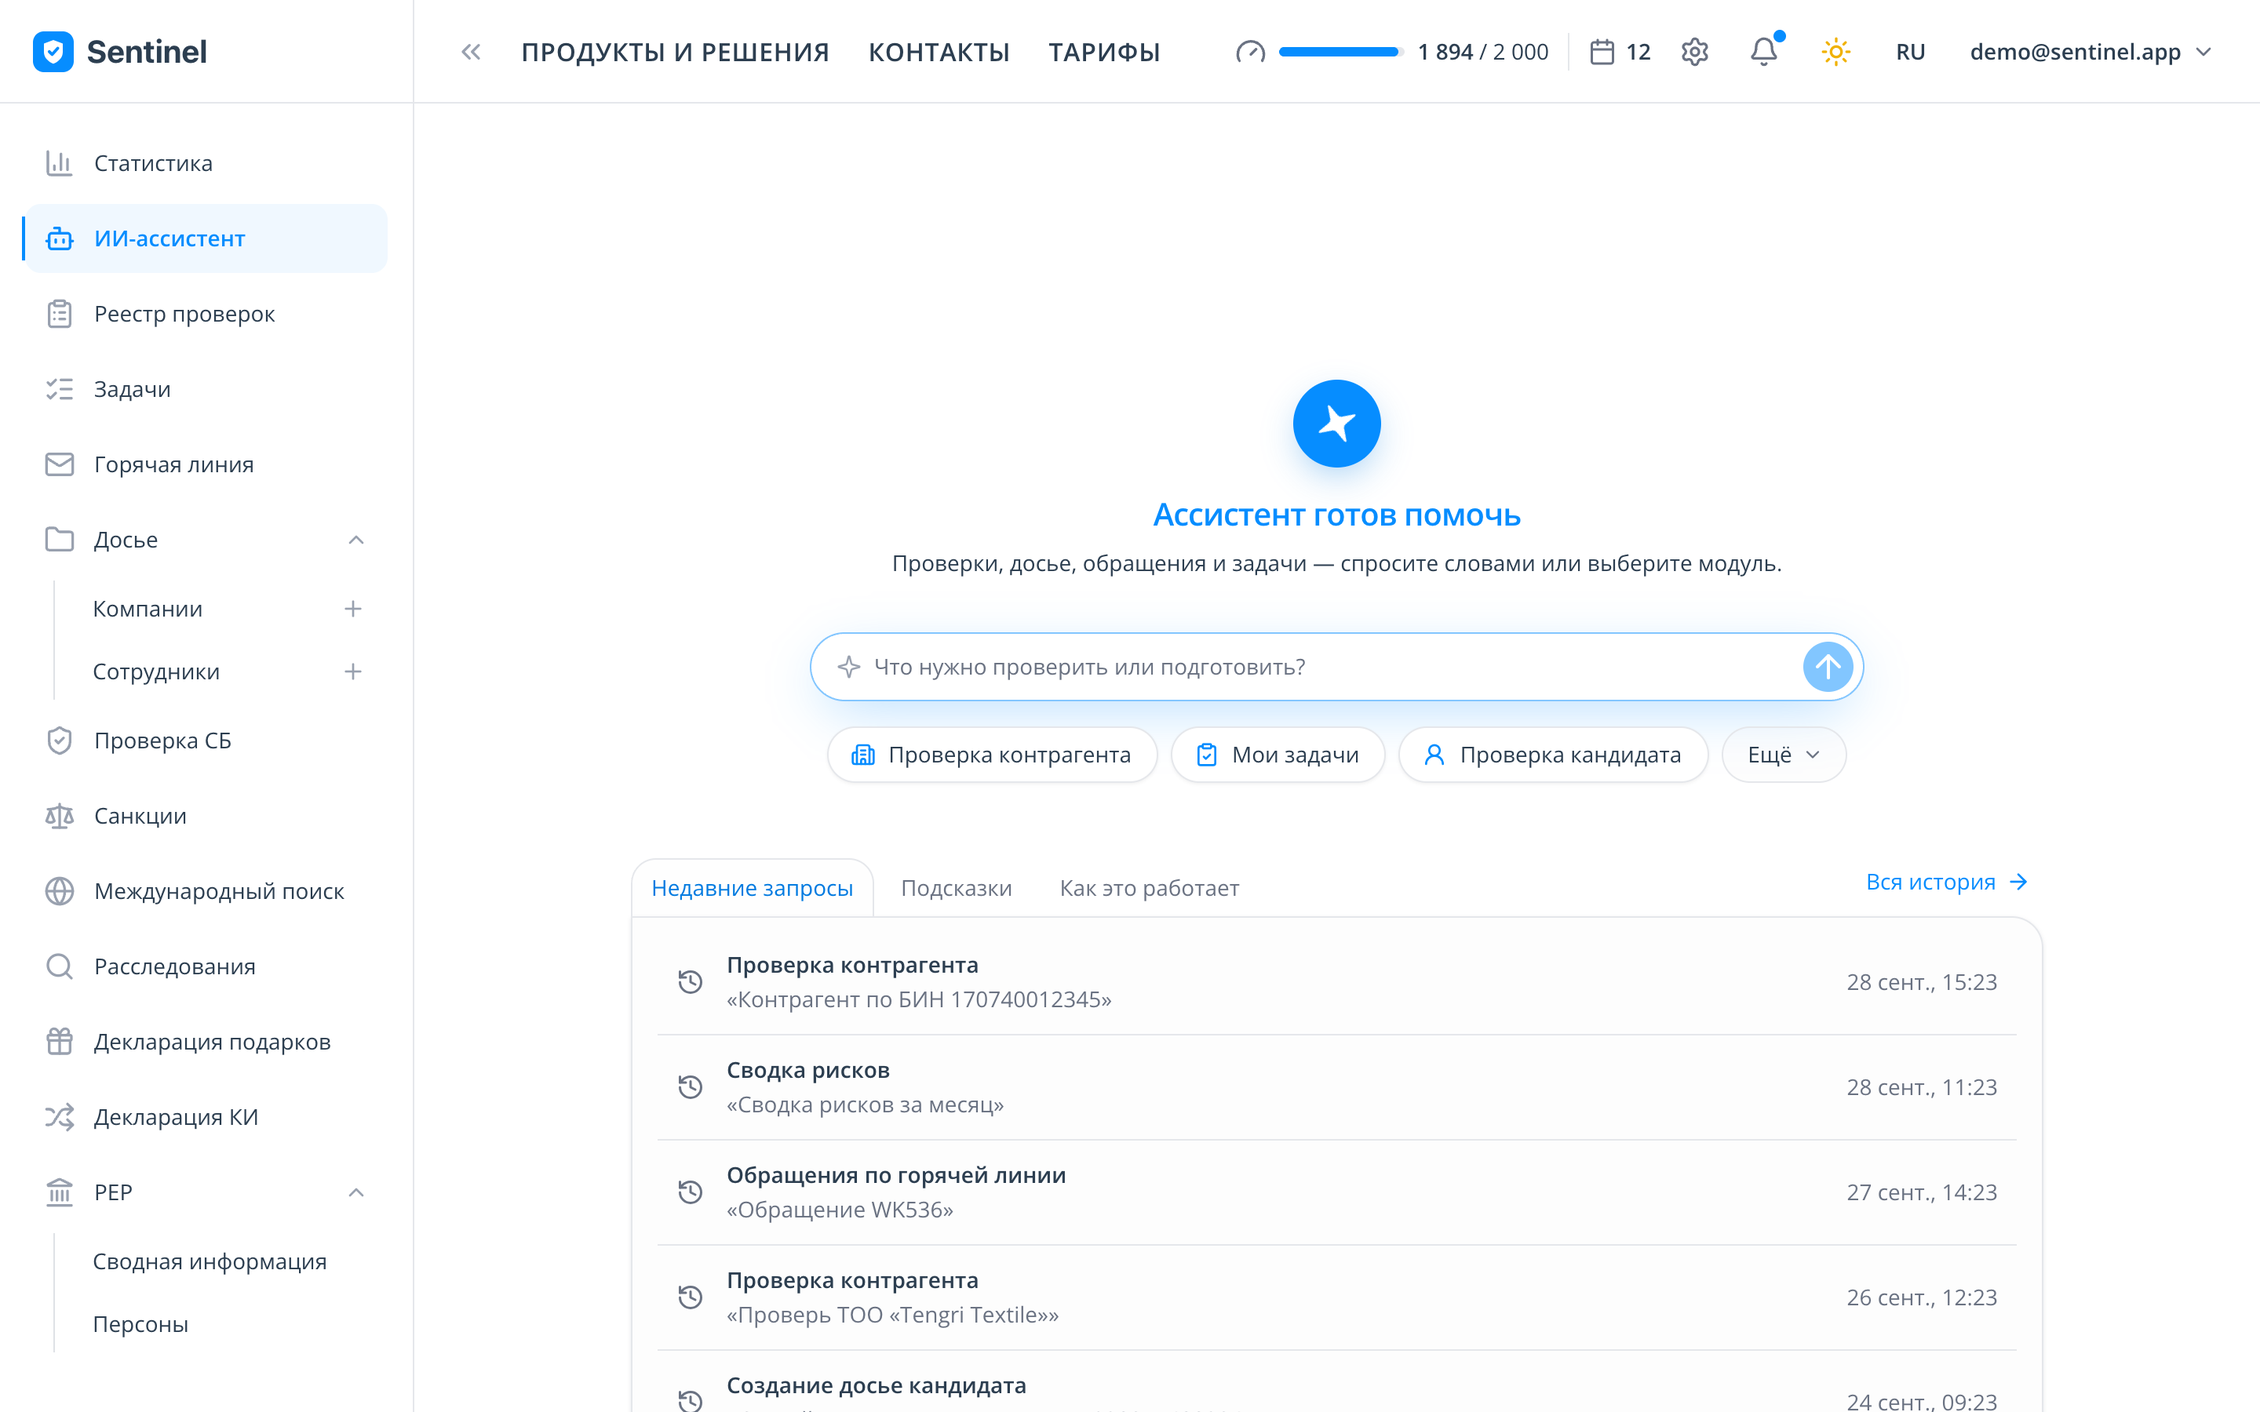
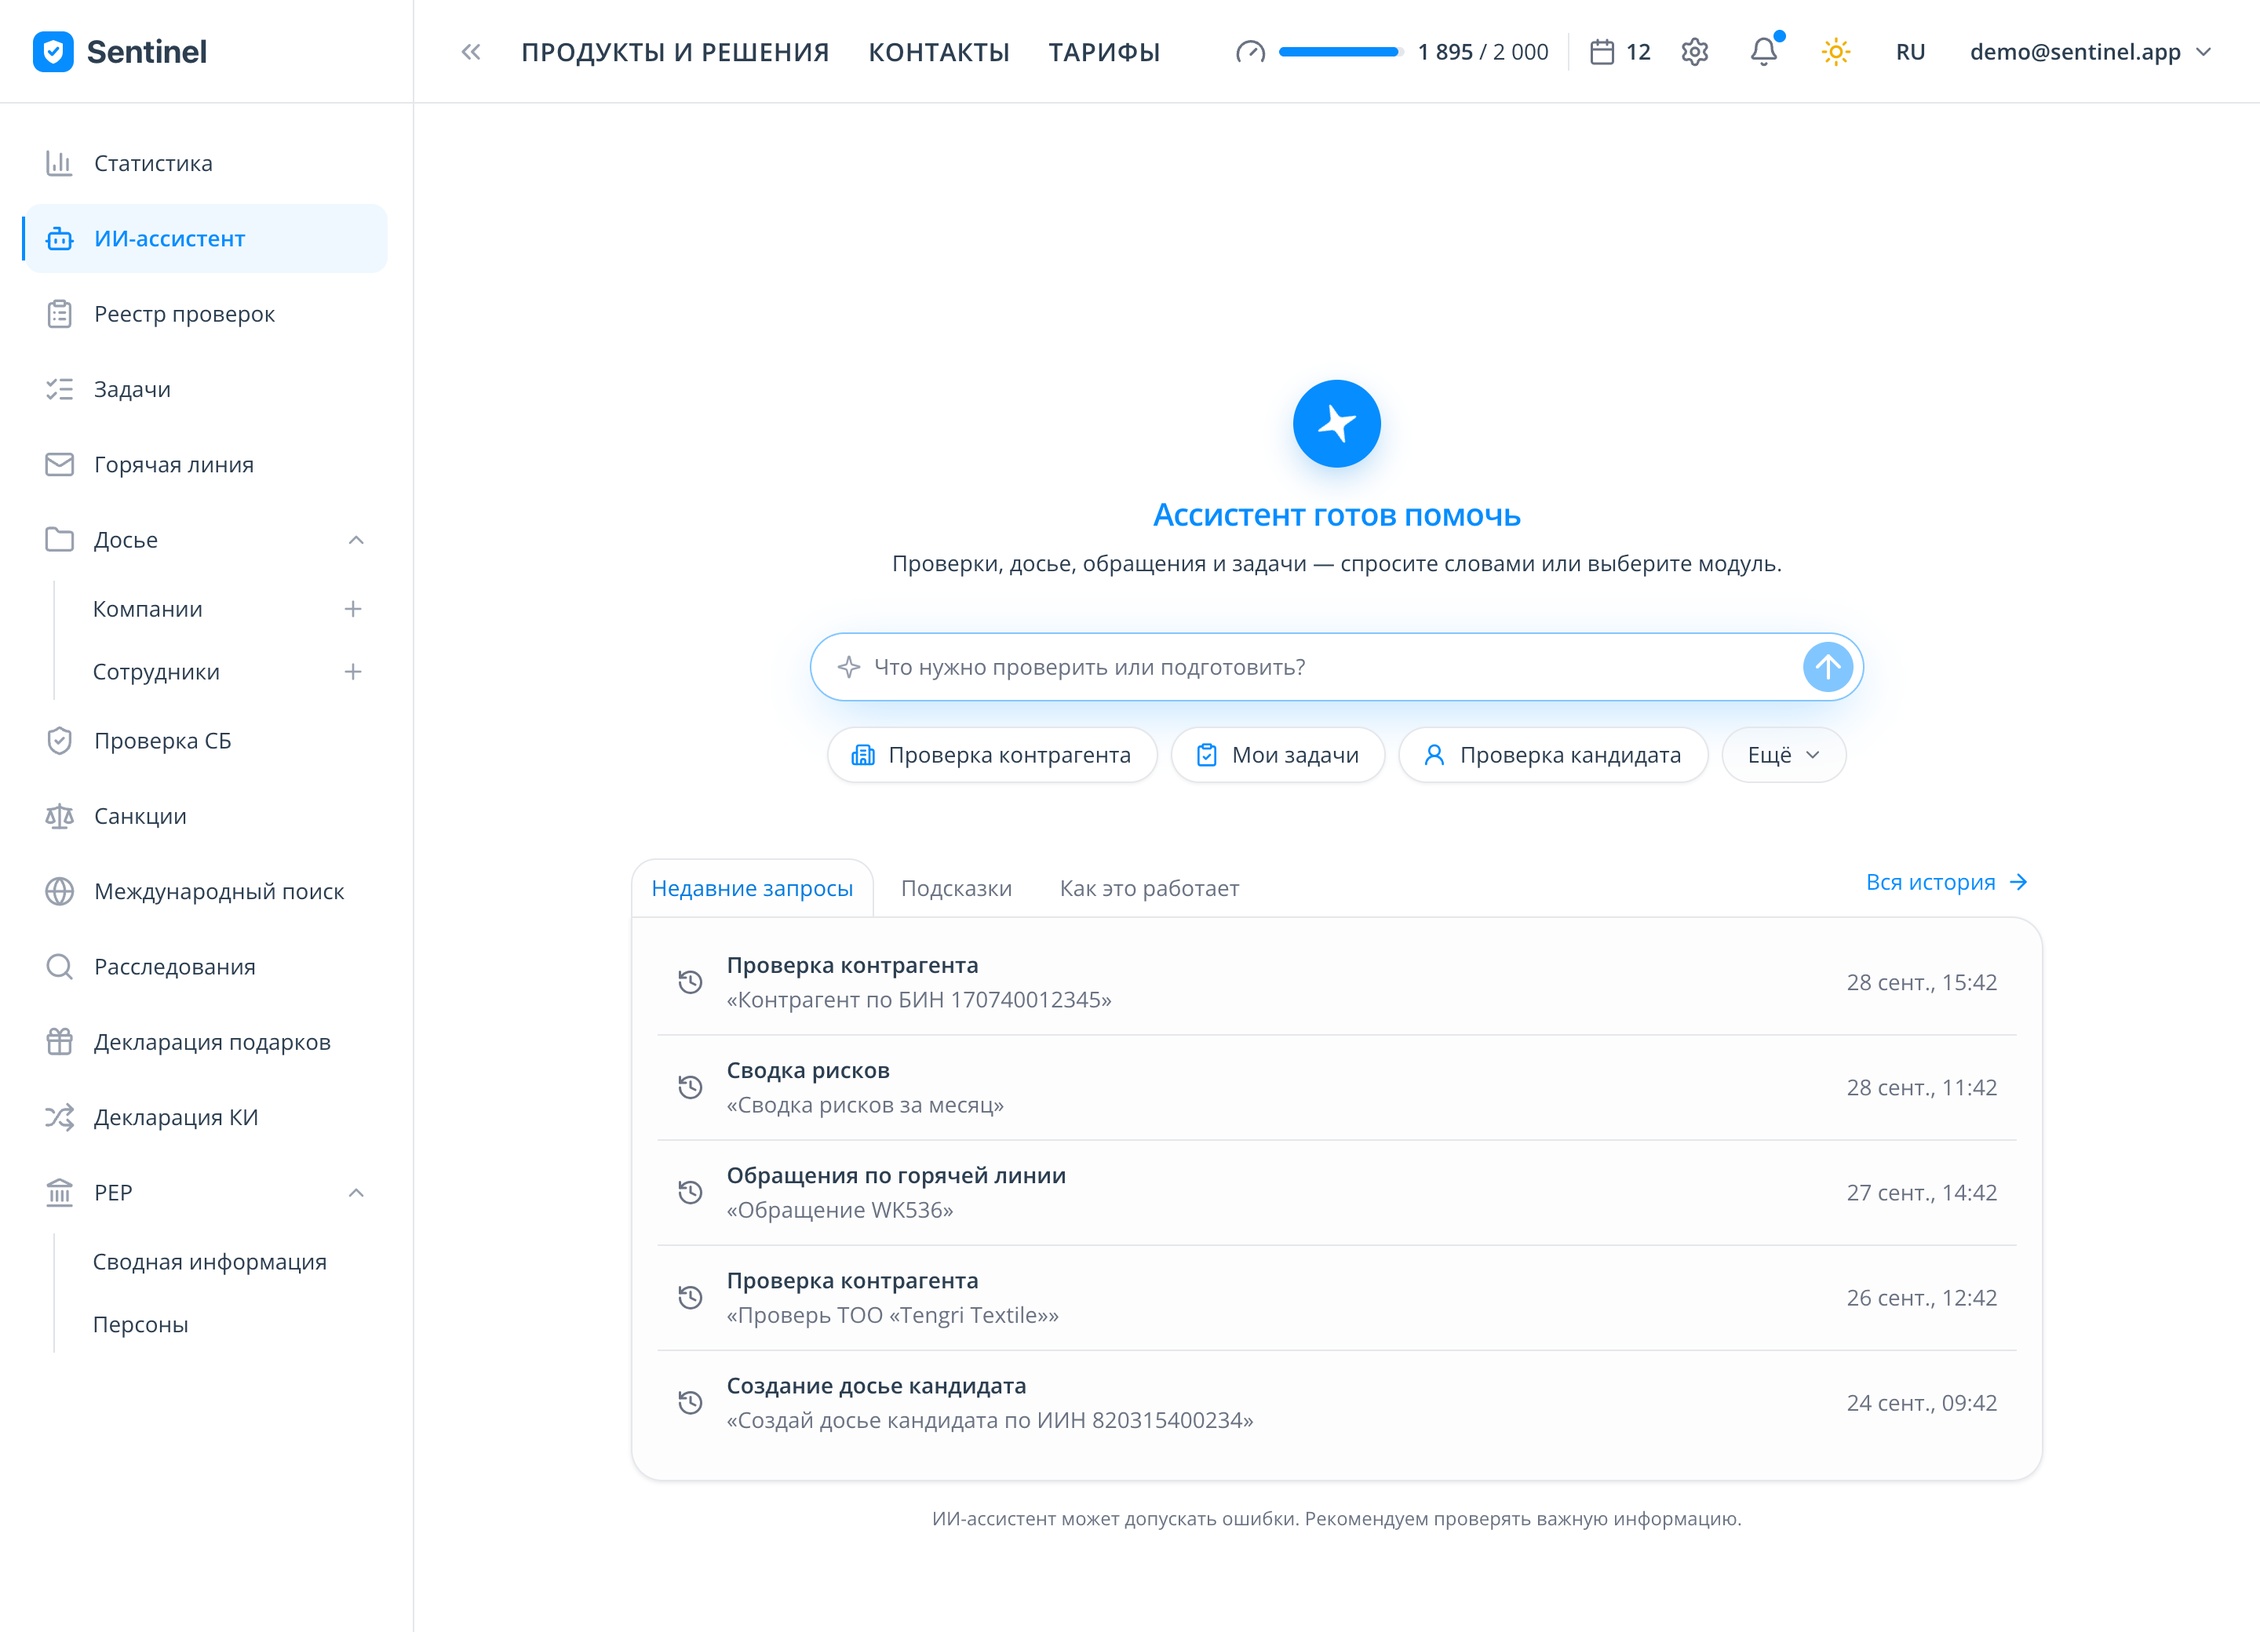
Sentinel: add sanctions result, tasks kanban, СБ analyze+result, CoI 2023 hover, PEP summary+graph; drop registry & investigations tables; taller assistant. Order galleries by app sidebar (Sentinel + Signet)

diff --git a/main.js b/main.js
@@ -411,12 +411,12 @@ const MEANING = {
 };
 const PREVIEW = {
   'aml': ['shots/aegis-1.png', 'shots/aegis-2.png', 'shots/aegis-3.png', 'shots/aegis-4.png', 'shots/aegis-5.png'],
-  'sentinel': ['shots/sentinel-dossier.png', 'shots/sentinel-home.png', 'shots/sentinel-statistics.png', 'shots/sentinel-assistant.png', 'shots/sentinel-investigations.png'],
+  'sentinel': ['shots/sentinel-dossier.png', 'shots/sentinel-statistics.png', 'shots/sentinel-coi.png', 'shots/sentinel-sb-result.png', 'shots/sentinel-pep-graph.png'],
   'speakup': ['shots/speakup-auth-1.png', 'shots/candor-1.png', 'shots/candor-2.png', 'shots/candor-3.png', 'shots/candor-4.png', 'shots/candor-5.png'],
   'ai-landings': ['shots/prism-1.png', 'shots/prism-2.png', 'shots/prism-3.png', 'shots/prism-4.png', 'shots/prism-5.png'],
   'digital-office': ['shots/cadence-1.png', 'shots/cadence-2.png', 'shots/cadence-3.png', 'shots/cadence-4.png', 'shots/cadence-5.png'],
   'spk': ['shots/spk.png', 'shots/ean-company.png', 'shots/ean-person.png', 'shots/ean-esf.png', 'shots/ean-proc.png', 'shots/ean-network.png', 'shots/ean-vypiski.png', 'shots/ean-ved.png'],
-  'signet': ['shots/signet-home.png', 'shots/signet.png', 'shots/signet-create.png', 'shots/signet-template.png', 'shots/signet-newtemplate.png', 'shots/signet-document.png', 'shots/signet-inbox.png'],
+  'signet': ['shots/signet-home.png', 'shots/signet-inbox.png', 'shots/signet-document.png', 'shots/signet-template.png', 'shots/signet-newtemplate.png', 'shots/signet.png', 'shots/signet-create.png'],
   'foodi': ['shots/foodi.png', 'shots/foodi-search.png', 'shots/foodi-restaurant.png', 'shots/foodi-dish.png', 'shots/foodi-cart.png', 'shots/foodi-checkout.png', 'shots/foodi-order.png', 'shots/foodi-reviews.png', 'shots/foodi-profile.png']
 };
 const METRICS = {
@@ -448,11 +448,11 @@ const BADGES = { 'ai-landings': 'AI', 'spk': 'AI', 'signet': 'AI', 'sentinel': '
 const SCREENS = {
   'speakup': ['shots/speakup-auth-1.png', 'shots/speakup-auth-3.png', 'shots/candor-1.png', 'shots/candor-2.png', 'shots/candor-3.png', 'shots/candor-4.png', 'shots/candor-5.png'],
   'aml': ['shots/aegis-1.png', 'shots/aegis-2.png', 'shots/aegis-3.png', 'shots/aegis-4.png', 'shots/aegis-5.png'],
-  'sentinel': ['shots/sentinel-home.png', 'shots/sentinel-dossier.png', 'shots/sentinel-statistics.png', 'shots/sentinel-assistant.png', 'shots/sentinel-investigations.png', 'shots/sentinel-sanctions.png'],
+  'sentinel': ['shots/sentinel-statistics.png', 'shots/sentinel-assistant.png', 'shots/sentinel-tasks.png', 'shots/sentinel-dossier.png', 'shots/sentinel-sb-analyze.png', 'shots/sentinel-sb-result.png', 'shots/sentinel-sanctions.png', 'shots/sentinel-coi.png', 'shots/sentinel-pep.png', 'shots/sentinel-pep-graph.png'],
   'ai-landings': ['shots/prism-1.png', 'shots/prism-2.png', 'shots/prism-3.png', 'shots/prism-4.png', 'shots/prism-5.png'],
   'digital-office': ['shots/cadence-1.png', 'shots/cadence-2.png', 'shots/cadence-3.png', 'shots/cadence-4.png', 'shots/cadence-5.png'],
   'spk': ['shots/ean-login.png', 'shots/ean-company.png', 'shots/ean-person.png', 'shots/ean-esf.png', 'shots/ean-proc.png', 'shots/ean-network.png', 'shots/ean-vypiski.png', 'shots/ean-ved.png'],
-  'signet': ['shots/signet-home.png', 'shots/signet.png', 'shots/signet-create.png', 'shots/signet-template.png', 'shots/signet-newtemplate.png', 'shots/signet-document.png', 'shots/signet-inbox.png'],
+  'signet': ['shots/signet-home.png', 'shots/signet-inbox.png', 'shots/signet-document.png', 'shots/signet-template.png', 'shots/signet-newtemplate.png', 'shots/signet.png', 'shots/signet-create.png'],
   'foodi': ['shots/foodi.png', 'shots/foodi-search.png', 'shots/foodi-restaurant.png', 'shots/foodi-dish.png', 'shots/foodi-cart.png', 'shots/foodi-checkout.png', 'shots/foodi-order.png', 'shots/foodi-reviews.png', 'shots/foodi-profile.png']
 };
 
